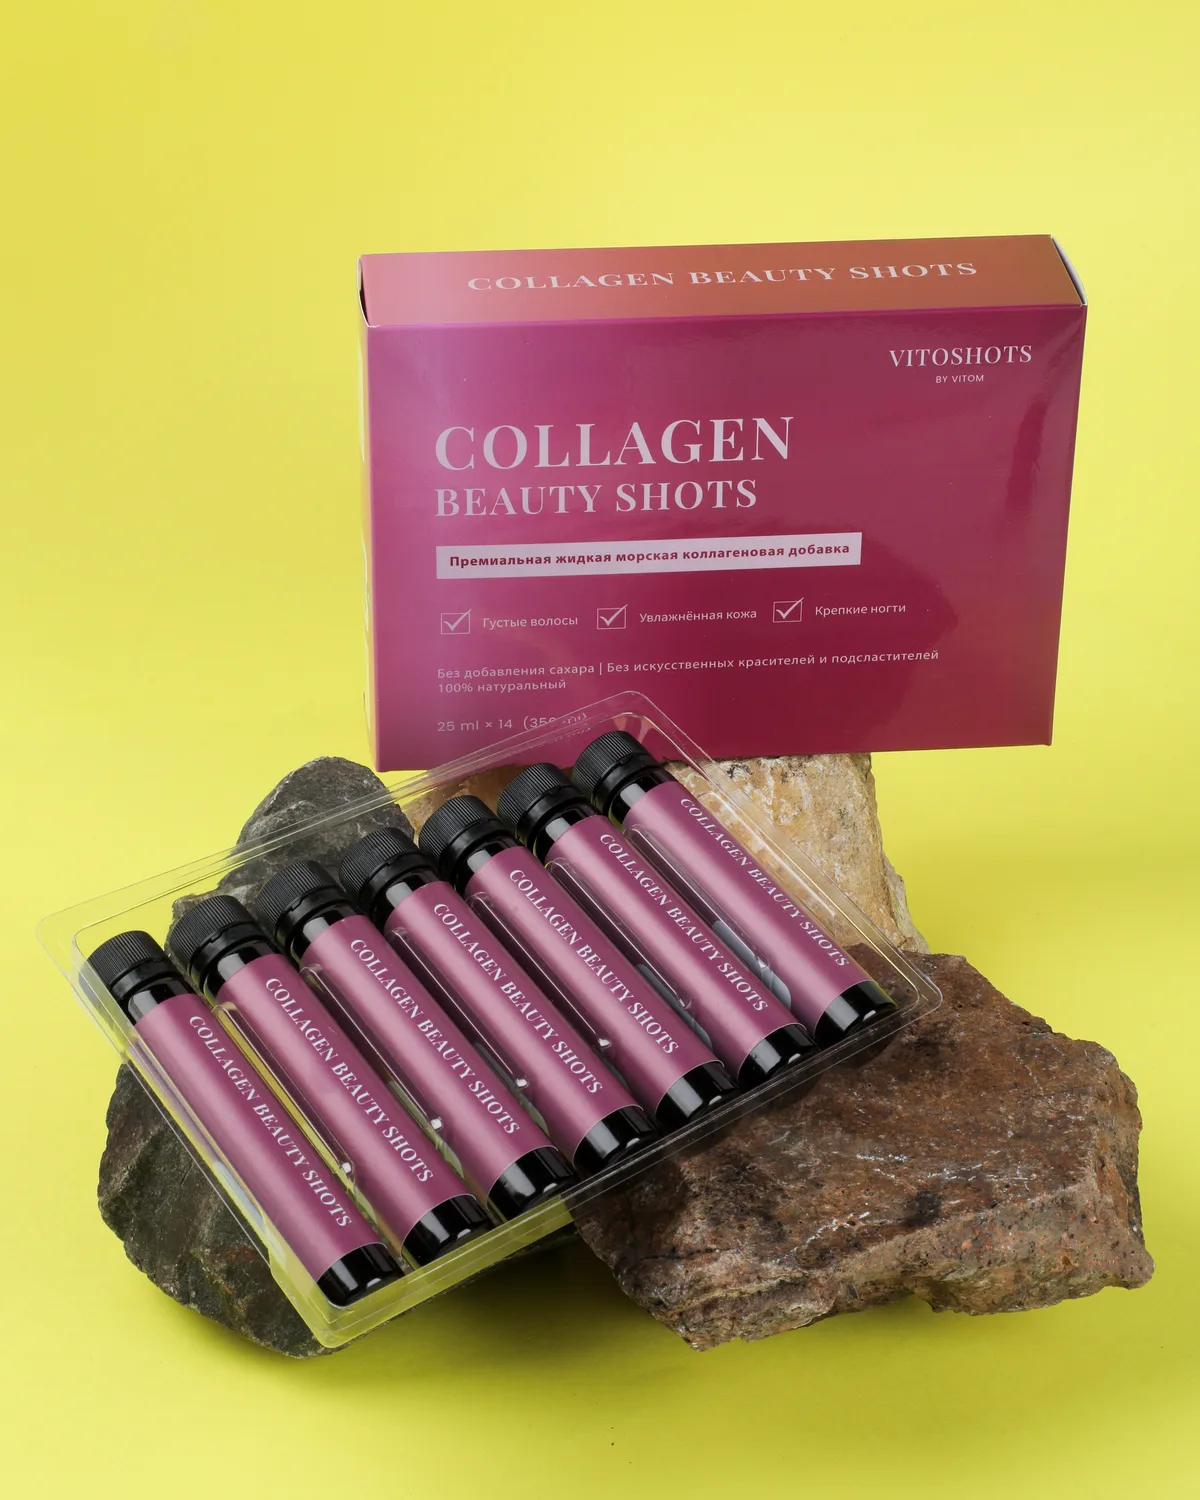
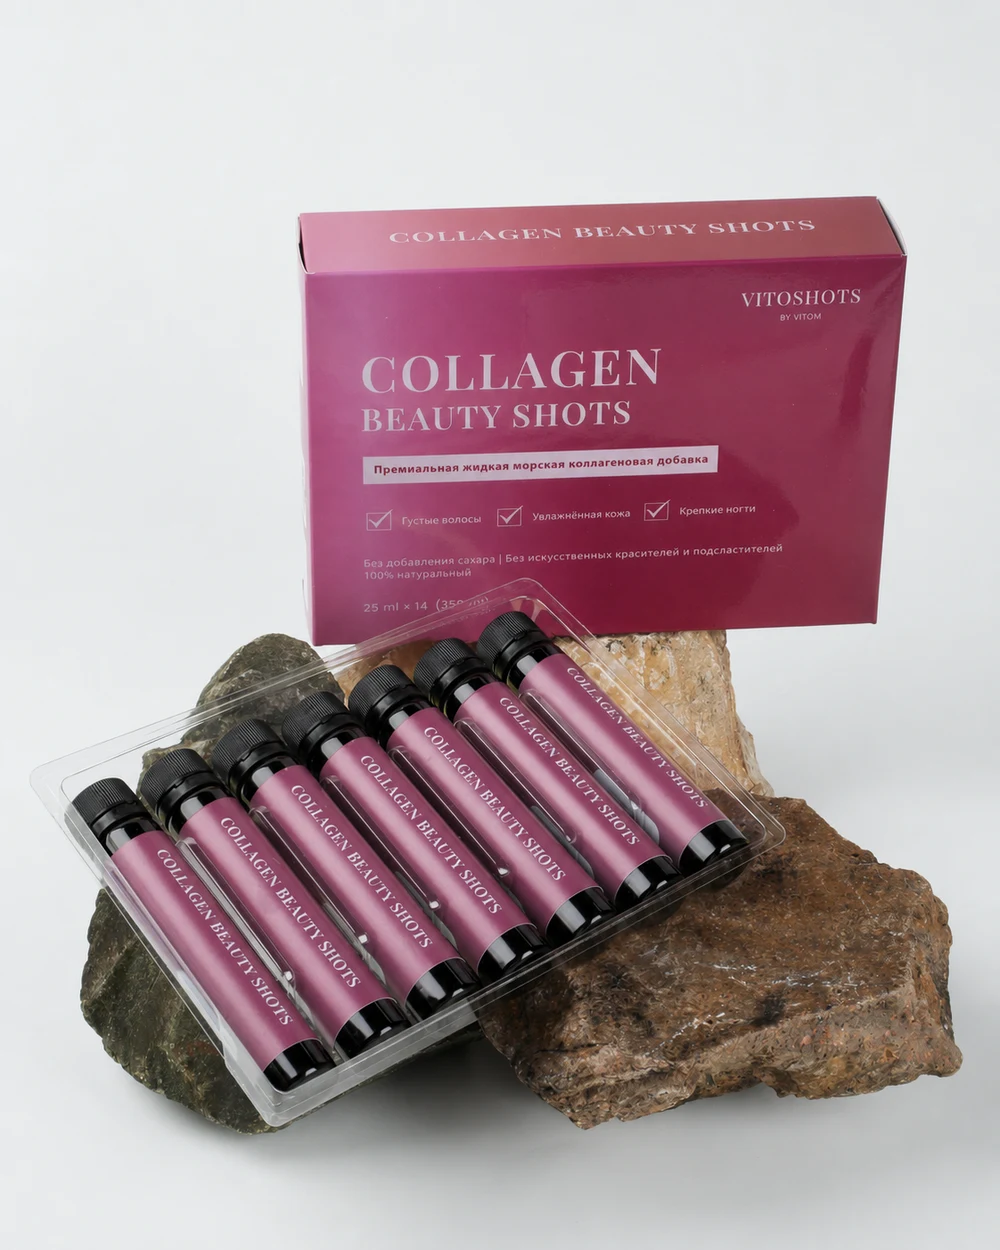
новое фото шотов, компактный баннер

diff --git a/src/components/catalog/CategoryBlock.tsx b/src/components/catalog/CategoryBlock.tsx
@@ -15,6 +15,8 @@ interface CategoryBlockProps {
   imageAlt: string;
   ctaHref: string;
   products: Product[];
+  /** "contain" for transparent product cut-outs on a surface; "cover" for photos. */
+  imageFit?: "cover" | "contain";
   /** First block on the page loads its banner eagerly for LCP. */
   priority?: boolean;
 }
@@ -27,28 +29,30 @@ export function CategoryBlock({
   imageAlt,
   ctaHref,
   products,
+  imageFit = "cover",
   priority = false,
 }: CategoryBlockProps): React.JSX.Element {
   return (
     <div>
-      {/* Banner: image left, copy + CTA right (stacks on mobile). */}
+      {/* Banner: image left, copy + CTA right (stacks on mobile). Capped height
+          keeps the whole block within one viewport. */}
       <Reveal className="grid lg:grid-cols-2 gap-8 lg:gap-16 items-center mb-14 lg:mb-20">
-        <div className="relative aspect-[4/5] overflow-hidden bg-paper">
+        <div className="relative w-full max-w-[460px] mx-auto lg:mx-0 h-[320px] sm:h-[420px] lg:h-[480px] overflow-hidden bg-paper">
           <Image
             src={image}
             alt={imageAlt}
             fill
             priority={priority}
-            sizes="(max-width: 1024px) 100vw, 600px"
-            className="object-cover"
+            sizes="(max-width: 1024px) 100vw, 460px"
+            className={cn(imageFit === "contain" ? "object-contain p-5" : "object-cover")}
           />
         </div>
 
-        <div className="lg:pl-4">
+        <div className="lg:pl-4 max-w-[440px]">
           <p className="eyebrow text-[11px] text-smoke mb-5">{eyebrow}</p>
           <h2 className="display text-[34px] sm:text-[48px] leading-[1.05] text-ink mb-5">{title}</h2>
-          <p className="text-[16px] leading-[1.8] text-smoke max-w-[440px] mb-9">{subtitle}</p>
-          <Link href={ctaHref} className={cn(buttonVariants({ variant: "dark", size: "lg" }))}>
+          <p className="text-[16px] leading-[1.8] text-smoke mb-9">{subtitle}</p>
+          <Link href={ctaHref} className={cn(buttonVariants({ variant: "dark", size: "lg" }), "w-full")}>
             К покупкам
           </Link>
         </div>

diff --git a/src/components/catalog/CatalogSection.tsx b/src/components/catalog/CatalogSection.tsx
@@ -16,6 +16,7 @@ export async function CatalogSection(): Promise<React.JSX.Element> {
           imageAlt="VITOSHOTS — коллагеновые шоты"
           ctaHref="/catalog?format=shots"
           products={shots}
+          imageFit="contain"
           priority
         />
 